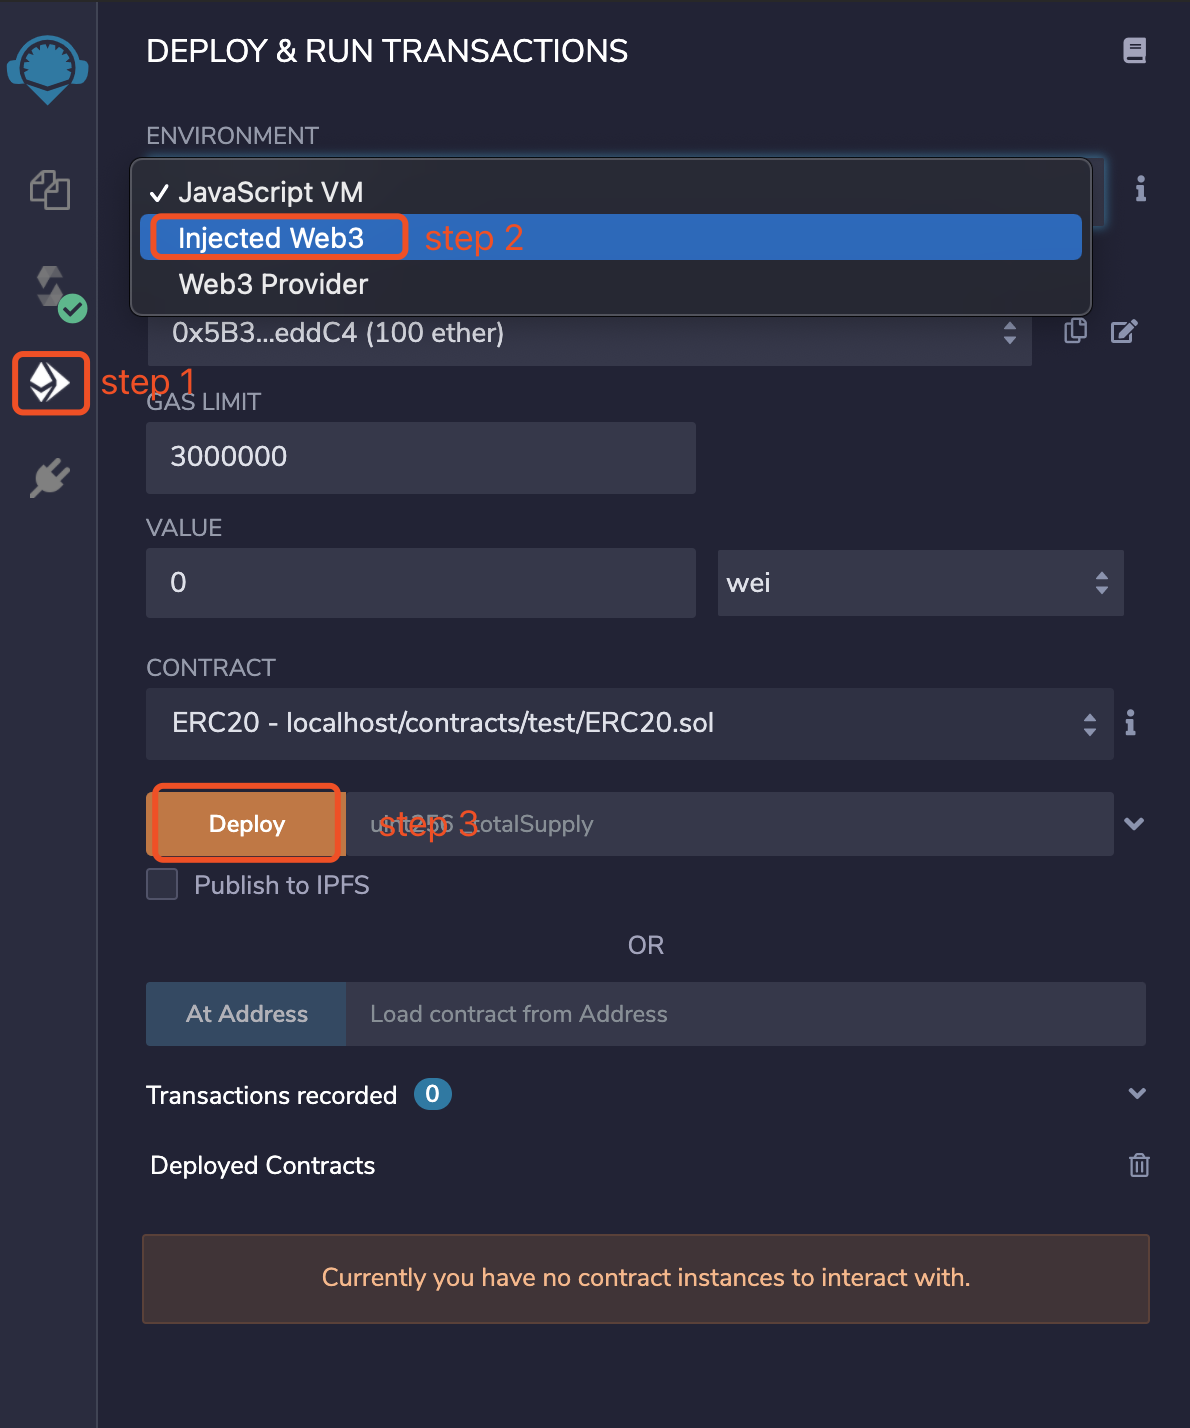
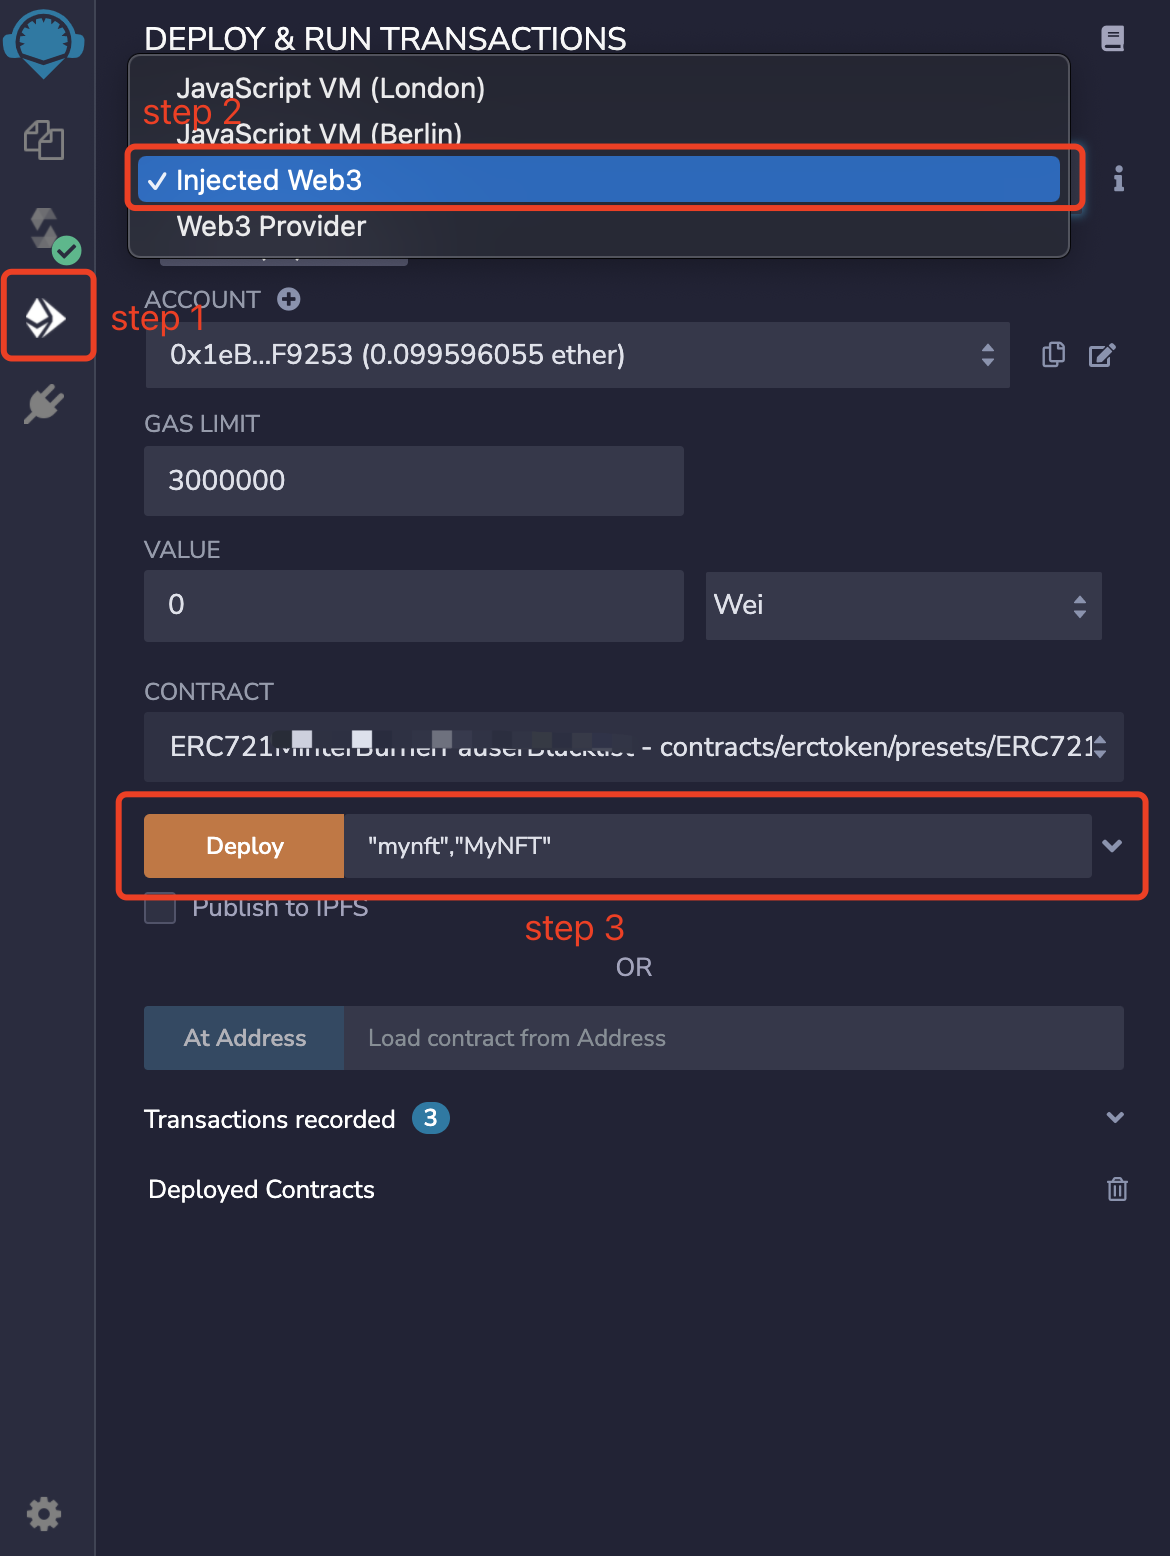
add nft

diff --git a/en/docs/integration/nft.md b/en/docs/integration/nft.md
@@ -1,0 +1,123 @@
+
+### Connect MetaMask to GateChain
+
+"MetaMask" is created to build a more safe and accessible "Ethereum" network. It connects users to blockchain and manage accounts, supported on Chrome, Brave and Safari.
+
+1. In this tutorial, we will use MetaMask wallet to manage your account assets in GateChain network;
+2. If you have not downloaded the MetaMask wallet, please refer to this tutorial to install the wallet: [Install MetaMask](./tool-metamask.md)
+3. Before issuing the contract, please ensure that the wallet has been switched to the GateChain network,If you have not added GateChain network, please add it according to the following configuration:
+
+	> Network name: GateChain
+	> 
+	> RPC URL: https://evm.gatenode.cc
+	>
+	> Chain ID: 86
+	> 
+	> Symbol: GT
+	> 
+	> Block explorer: https://gatescan.org/ 
+
+
+### Get GT tokens
+
+1. Transfer to metamask wallet account through gatechain mainnet gt account.
+	- Initiate transfer transaction: [CLI](../developers/cli/tx.md#Send-Transaction)、[RPC](../developers/api/tx.md#Send-Transaction)
+2. Through <a href="https://www.gate.io/cn" target="_blank">gate.io</a> withdraw to metamask wallet account
+Please select "GateChain/GRC20" instead of "ETH/ERC20".
+
+
+### Writing contracts using Remix or Truffle
+
+This tutorial details the instructions for writing Remix,Please refer to this document for truffle writing instructions: [Truffle](./tool-truffle.md)
+
+Remix is an open sourced Solidity IDE that's used to write, compile and debug contracts. Solidity is the programming language designed for developing smart contracts on Ethereum.
+
+
+#### Create Contract
+
+
+1.Open remix website（<a href="http://remix.ethereum.org" target="_blank"> Click to enter </a>），click “New File” to create a XXX.sol file.
+
+<img src="../../images/remix1.png"  height=50% width=50%>
+
+2.Click the file you created, and start to write your own smart contract code.
+
+3.The following is a development example of ERC-721 we provide:
+
+First install the environment
+
+```
+npm install @openzeppelin/contracts
+```
+
+Example(For reference only):
+
+```
+pragma solidity ^0.8.0;
+
+import "@openzeppelin/contracts/token/ERC721/ERC721.sol";
+
+contract MyCollectible is ERC721 {
+    constructor() ERC721("MyCollectible", "MCO") {
+    }
+}
+```
+4.The following is a development example of ERC-1155 we provide:
+
+First install the environment
+
+```
+npm install @openzeppelin/contracts
+```
+
+Example(For reference only):
+
+```
+pragma solidity ^0.8.0;
+
+import "@openzeppelin/contracts/token/ERC1155/ERC1155.sol";
+
+contract MyCollectible is ERC1155 {
+    constructor() ERC1155("https://token-cdn-domain/{id}.json") {
+    }
+}
+
+```
+
+5.Once the development is completed, start compiling smart contract.
+
+<img src="../../images/remix2.png"  height=30% width=30%>
+
+#### Deploy and Interact with Smart Contract
+
+1. Once compilation is completed, start deploying the smart contract.
+
+	<img src="../../images/remix3.png"  height=30% width=30%>
+
+2. Click“Deploy” to start to deploy the smart contract. Jump to MetaMask to connect to your account
+
+	>（Make sure MetaMask network is on GateChain）
+
+	<img src="../../images/remix4.png"  height=30% width=30%>
+	
+3. Open the deployed contract and you can choose a functionality to interact with MetaMask!
+
+	<img src="../../images/remix5.png"  height=30% width=30%>
+	
+4. Query details about contract interaction on the gatechain block explorer.
+
+	>Block explorer:<a href="https://gatescan.org/txs?lang=en_US" target="_blank">Click to enter</a>
+	>
+	>Example of mint transactions for ERC-721: <a href="https://gatescan.org/tx/0xcb26d417b550e11d86a0042873383bf5eae69209c4f8a5823071d0edd0501626?lang=en_US" target="_blank">Click to enter</a>
+	
+	
+### Other
+
+1. If you want to view your NFT on the metamask mobile terminal,Please jump to [Check your NFT on the MetaMask mobile](./metamask-mobile.md)
+
+2. If you are new to smart contract development, please refer to this document to learn how to develop and compile contracts.
+	- https://docs.openzeppelin.com/learn/developing-smart-contracts
+
+3. Current NFT contracts are generally developed based on two official Ethereum specifications: ERC721 and ERC1155. For the difference between these two protocols, please refer to the official Ethereum documentation:
+	- https://eips.ethereum.org/EIPS/eip-721  
+	- https://eips.ethereum.org/EIPS/eip-1155

diff --git a/en/docs/integration/gatescan.md b/en/docs/integration/gatescan.md
@@ -1,0 +1,42 @@
+
+Querying NFT information in the GateScan can be viewed in two ways:
+
+#### Navigation Bar-Assets-ERC721 Top Tokens
+
+1. Query the information in the erc721 list and click to enter the token details page.
+
+	<img src="../../images/gatescan1.png"  height=50% width=50%>
+	
+2. The details page displays information such as an overview of NFT.
+
+	<img src="../../images/gatescan2.png"  height=50% width=50%>
+
+3. The transfers, holder list and inventory of NFT are displayed at the bottom of the details page.
+
+	<img src="../../images/gatescan3.png"  height=50% width=50%>
+
+4. You can click the inventory module to query the token ID of this NFT.
+
+	<img src="../../images/gatescan4.png"  height=50% width=50%>
+	
+#### Query by searching NFT address
+
+1. After entering the address in the search box, click the query result.
+
+	<img src="../../images/gatescan5.png"  height=50% width=50%>
+	
+2. After entering the contract details page, click "token Tracker" to enter the NFT details page.
+
+	<img src="../../images/gatescan6.png"  height=50% width=50%>
+	
+3. The details page displays information such as an overview of NFT.
+
+	<img src="../../images/gatescan2.png"  height=50% width=50%>
+
+4. The transfers, holder list and inventory of NFT are displayed at the bottom of the details page.
+
+	<img src="../../images/gatescan3.png"  height=50% width=50%>
+
+5. You can click the inventory module to query the token ID of this NFT.
+
+	<img src="../../images/gatescan4.png"  height=50% width=50%>

diff --git a/en/docs/integration/metamask-mobile.md b/en/docs/integration/metamask-mobile.md
@@ -1,0 +1,28 @@
+At present, to manage your NFT through MetaMask, you need to download MetaMask mobile terminal.
+
+1. Get the app for free on iOS and Android, and make sure that your NFT receiving account already exists in the wallet account and the GateChain network has been added.
+
+2. The following details how to add NFT and transfer in the wallet:
+
+	a. On the account page, select the NFTs module and click "Import NFTs";
+	
+	<img src="../../images/nft1.png"  height=30% width=30%>
+	
+	b. Enter the NFT address and ID to be added, and click "IMPORT" to add successfully;
+	
+	<img src="../../images/nft2.png"  height=30% width=30%>
+
+	c. The successfully added NFT is displayed in the list. Click the corresponding NFT to send it to other accounts;
+	
+	<img src="../../images/nft3.png"  height=30% width=30%>
+	
+	<img src="../../images/nft4.png"  height=30% width=30%>
+
+	d. Enter the account address to be sent and confirm the sending information;
+	
+	<img src="../../images/nft5.png"  height=30% width=30%>
+	
+	e. The receiving account needs to be in the NFTs module. After clicking "Import NFTs", you can see the received NFT information.	
+	<img src="../../images/nft6.png"  height=30% width=30%>
+	
+	

diff --git a/en/docs/integration/smart-contract.md b/en/docs/integration/smart-contract.md
@@ -1,4 +1,4 @@
-## How to Connect Remix
+
 
 ### About Remix 
 Remix is an open sourced Solidity IDE that's used to write, compile and debug contracts. 
@@ -48,6 +48,7 @@ Please select "GateChain/GRC20" instead of "ETH/ERC20".
 > Block explorer：<a href="https://gatescan.org/txs" target="_blank">Click to enter</a>
 > 
 >Example of mint transactions for ERC-721: <a href="https://gatescan.org/tx/0xcb26d417b550e11d86a0042873383bf5eae69209c4f8a5823071d0edd0501626?lang=en_US" target="_blank">Click to enter</a>
+
 
 
 
